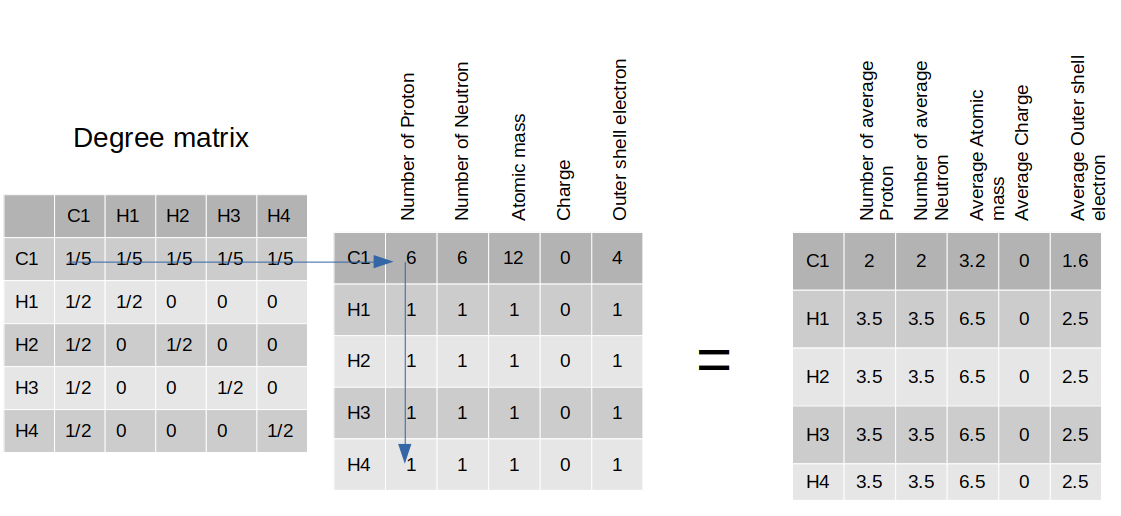
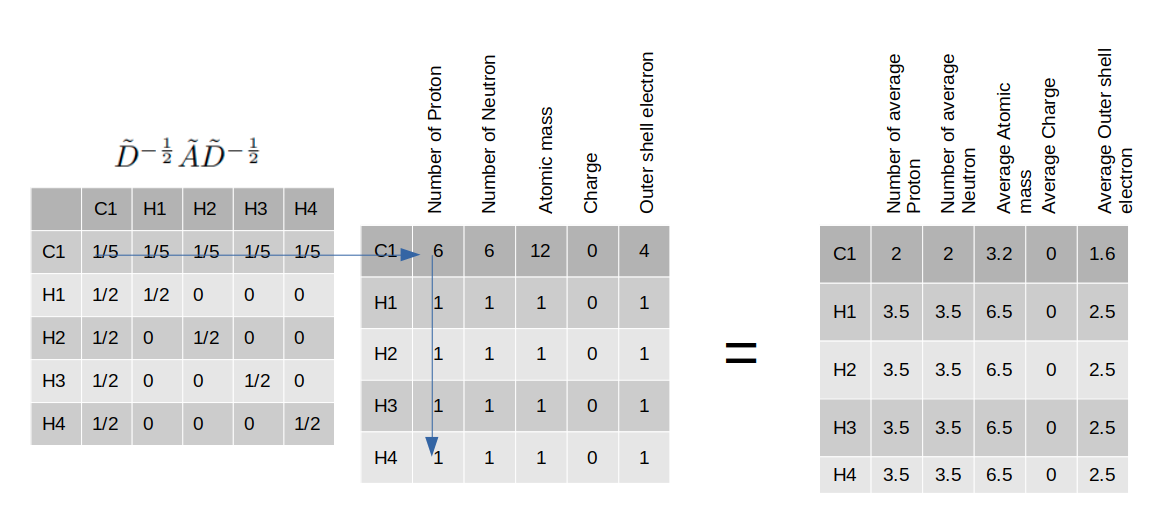
fixing visualization

Changed region(s): [[0.0, 0.093, 0.5932, 0.9612], [0.6869, 0.093, 0.9991, 0.9922], [0.6244, 0.6512, 0.6557, 0.7442]]

diff --git a/README.md b/README.md
@@ -40,9 +40,8 @@ A few things happening here all at once
   <p align="center">
     <img width="650" height="350" src="images/adjacency-matrix.png">
   </p>
-3. The Matrix D is degree matrix which is basically doing average operation to scale down the feature calculation. Its making the feature calculation robust against the effect of number of connected nodes. Otherwise, if one node is connected to just another node, its feature value would be lower than the node which is connected to multiple nodes.
-  
-  (Note: For simplicity, square root calculation of degree matrix was neglected)
+3. The Matrix D is degree matrix (diaginal matrix containing total presence of 1 in each row of adjacency matrix at the diagonal position of that row). If we multiply D^(-1/2).A.D^(-1/2) as shown in the equation, it will basically apply average operation to scale down the feature calculation. Its making the feature calculation robust against the effect of number of connected nodes. Otherwise, if one node is connected to just another node, its feature value would be lower than the node which is connected to multiple nodes.
+
   <p align="center">
     <img width="650" height="350" src="images/degree-matrix.png">
   </p>
